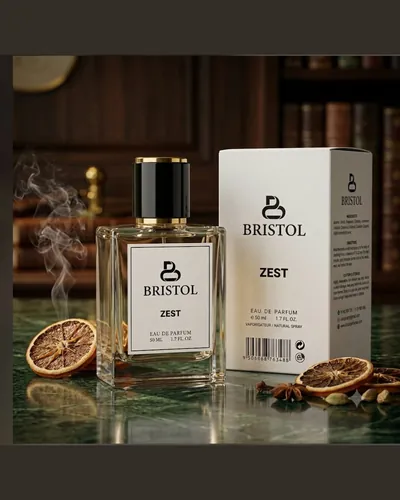
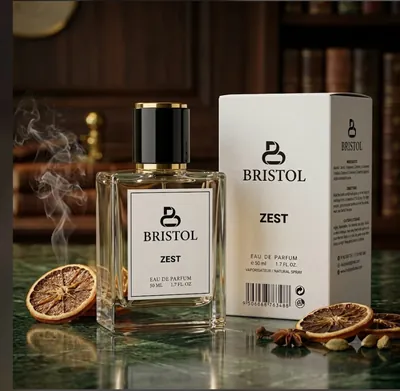
Scene photos kept as uploaded, no background bars added
Claude-Session: https://claude.ai/code/session_01LvnarAE6nzY2X1RJq9yMqA

diff --git a/tools/optimize_images.py b/tools/optimize_images.py
@@ -2,15 +2,15 @@
 """Makes small WebP copies (400, 600, 800 and 1200 px wide) of every photo in images/uploads into images/opt.
 The website uses these instead of the original files, which can be several MB each.
 EVERY photo of every product (1st, 2nd, 3rd ...) is also evened out: when it is a cut-out on a transparent or plain light background,
-the empty space around it is trimmed and it is placed on a 4:5 canvas at one fixed size; any other photo is placed whole on a 4:5 canvas
-(nothing is cut off). So photo 1 of one product matches photo 1 of the next, and so on, on computers and phones. The original file is never changed.
+the empty space around it is trimmed and it is placed on a 4:5 canvas at one fixed size; any other photo (a scene with its own background)
+is kept exactly as uploaded, with no bars added. So photo 1 of one product matches photo 1 of the next, and so on, on computers and phones. The original file is never changed.
 Names: /images/opt/<lowercase-name-with-dashes>-<width>.webp. Run by the GitHub Action whenever a photo is added or changed."""
 import os, re, glob, json, hashlib
 from urllib.parse import unquote
 from PIL import Image, ImageChops
 SRC, OUT, WIDTHS = 'images/uploads', 'images/opt', (400, 600, 800, 1200)
 def slug(name): return re.sub(r'[^a-z0-9]+', '-', unquote(name).lower()).strip('-')
-NORM = 'even-v2'          # change this text to redo every evened-out photo
+NORM = 'even-v3'          # change this text to redo every evened-out photo
 CANVAS = (1200, 1500)     # 4:5, the shape of a product card
 FIT_H, FIT_W = 0.76, 0.74 # the bottle fills at most this share of the canvas height and width
 def main_photos():
@@ -61,7 +61,7 @@ for f in sorted(glob.glob(SRC + '/*')):
     im = im.convert('RGBA' if ('A' in im.getbands() or im.mode == 'P' and 'transparency' in im.info) else 'RGB')
     if os.path.basename(f) in MAIN:
         ev = even_out(im)
-        im = ev if ev is not None else frame(im)
+        if ev is not None: im = ev      # other photos (with their own background) are kept exactly as uploaded, no bars added
     for w in WIDTHS:
         o = im if im.width <= w else im.resize((w, round(im.height * w / im.width)), Image.LANCZOS)
         o.save(f'{OUT}/{s}-{w}.webp', 'WEBP', quality=80, method=6)
